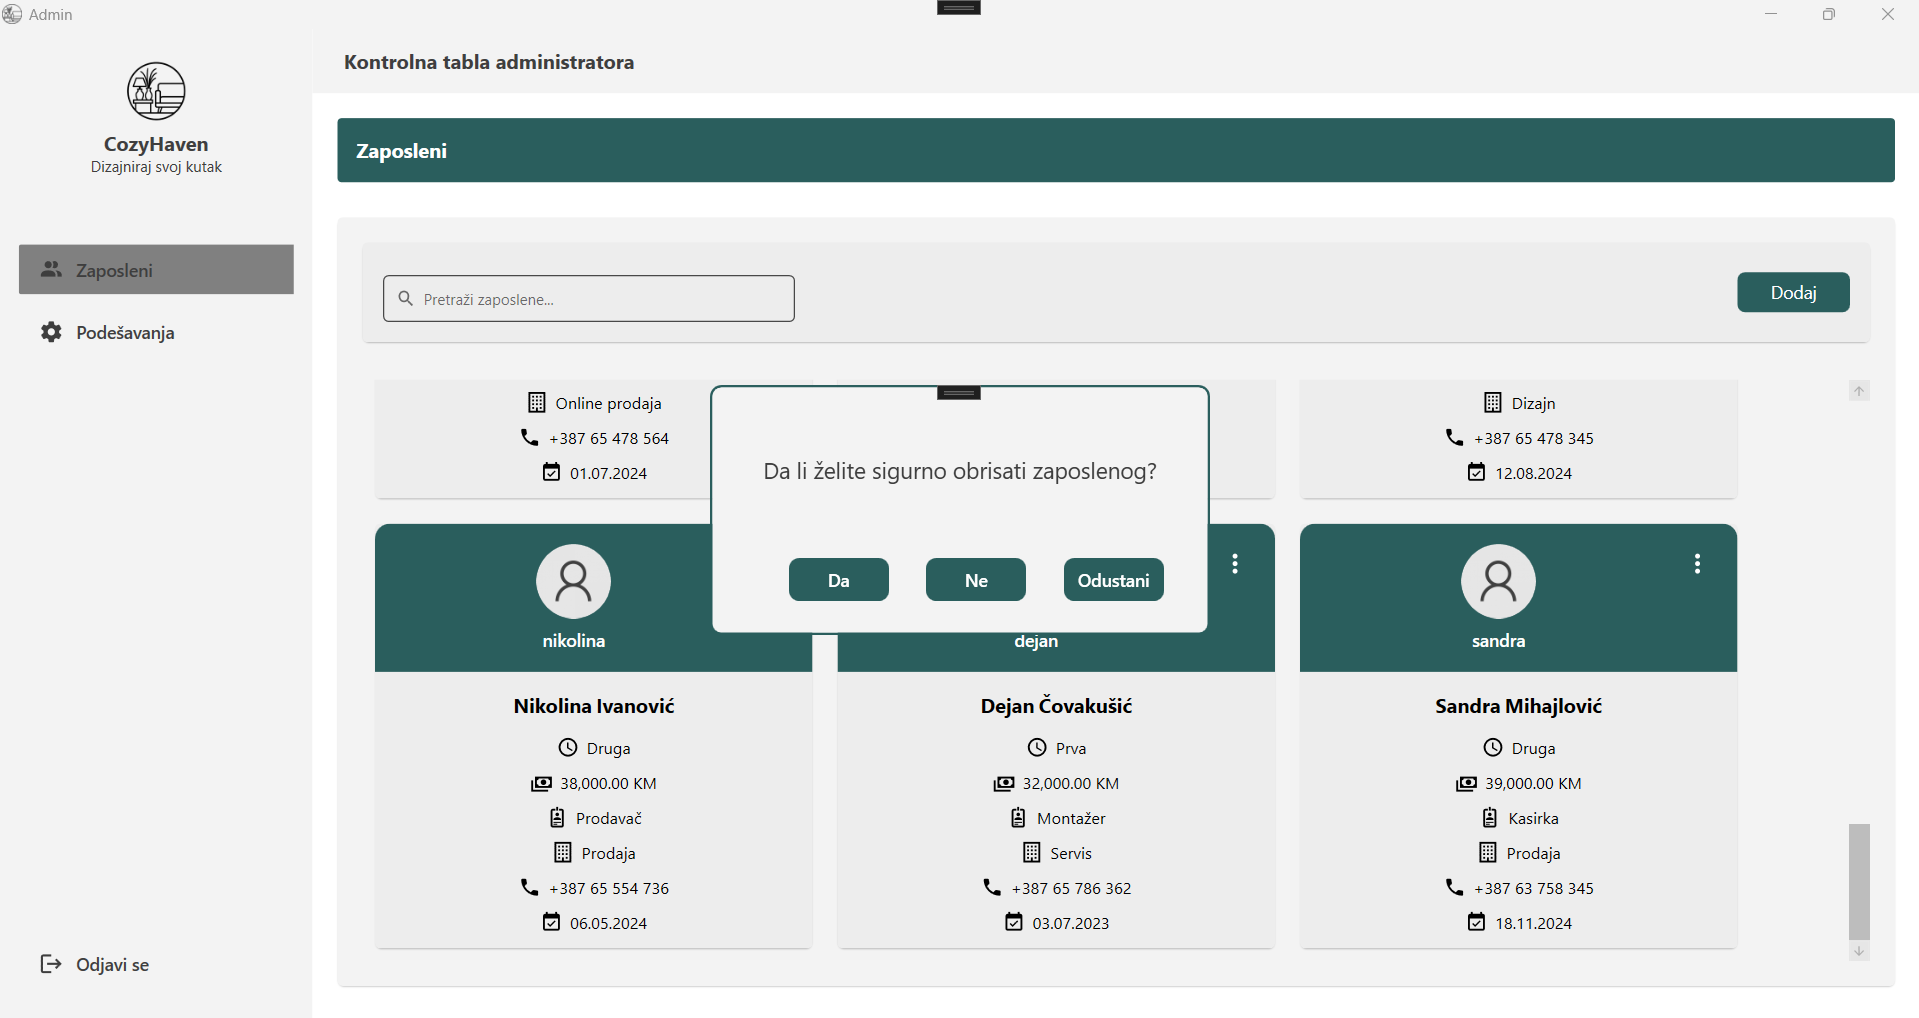
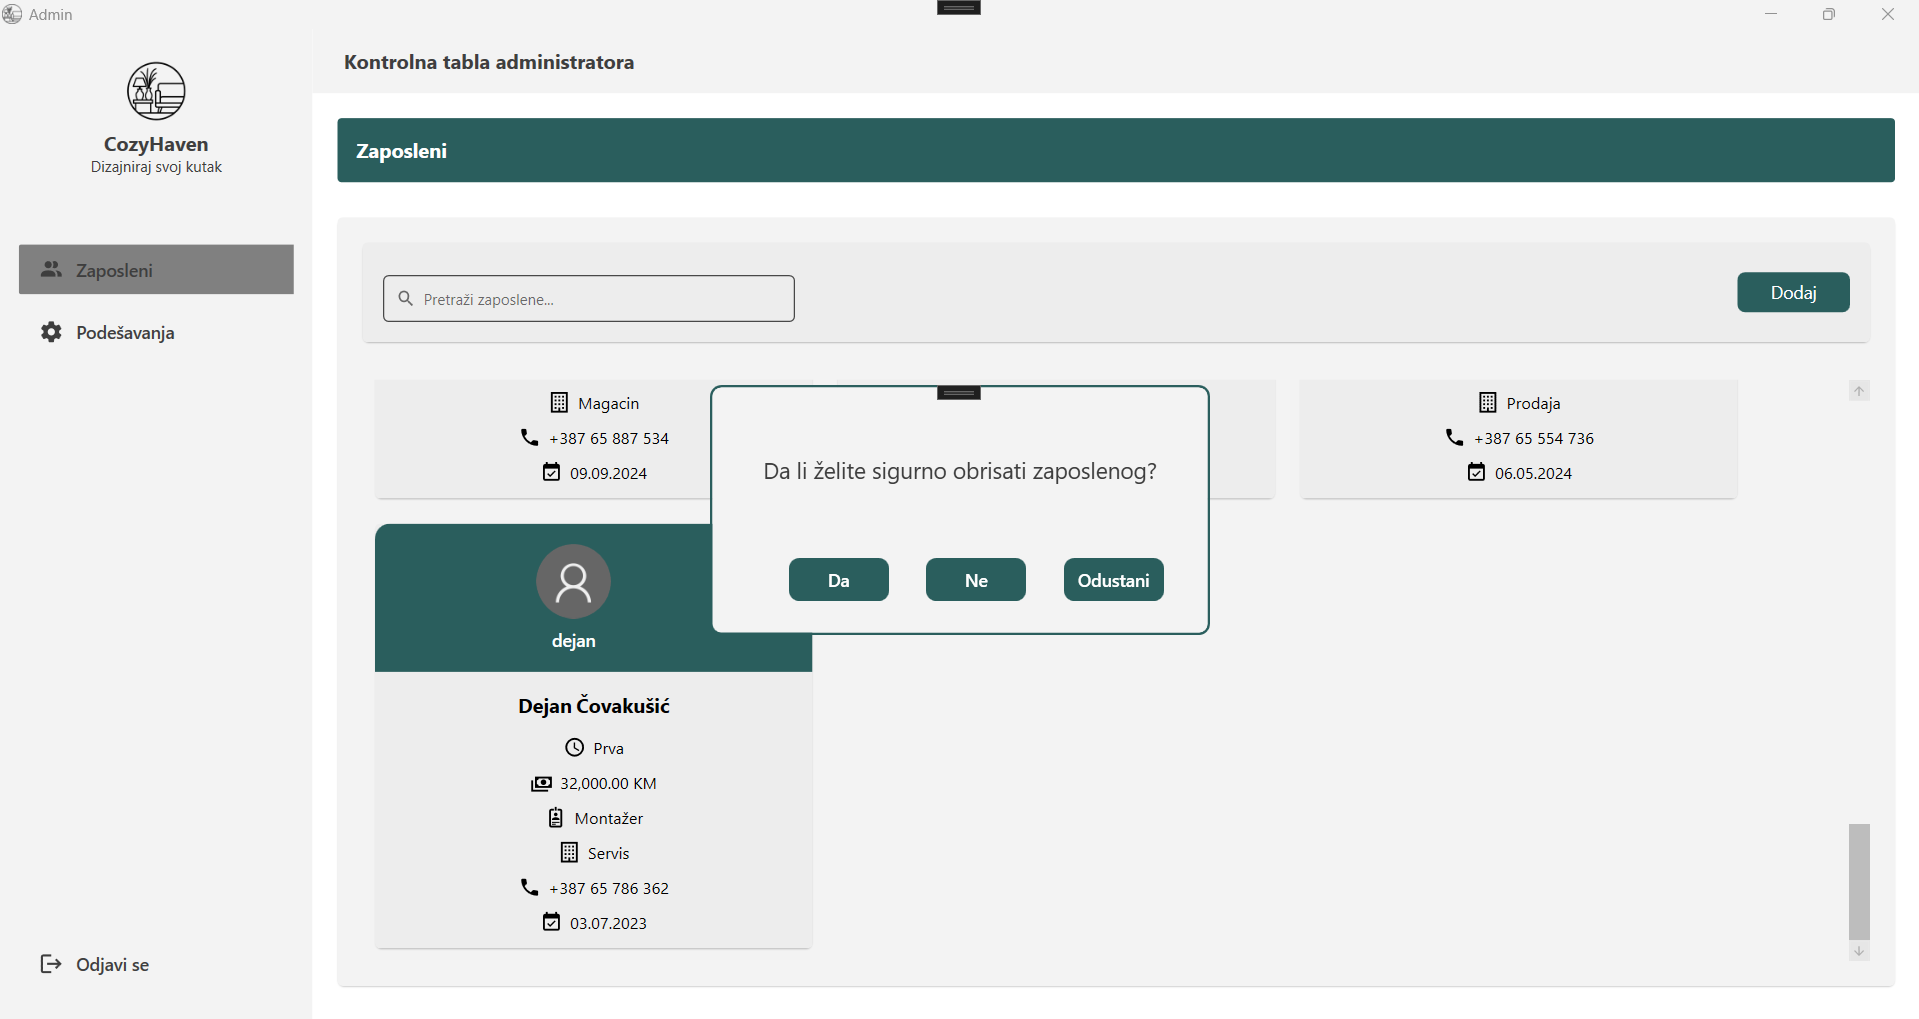
Fix delete and update popup style

diff --git a/CozyHaven/CozyHaven/Views/CategoriesView.xaml b/CozyHaven/CozyHaven/Views/CategoriesView.xaml
@@ -95,13 +95,13 @@
                                                     <materialDesign:PopupBox Grid.Column="1"
                                                                              HorizontalAlignment="Right"
                                                                              VerticalAlignment="Top"
-                                                                             Width="{DynamicResource BorderWidth}" Height="{DynamicResource BorderWidth}"
-                                                                             Background="Transparent"
+                                                                             Width="{DynamicResource BorderWidth}" 
+                                                                             Height="{DynamicResource BorderWidth}"
+                                                                             PopupUniformCornerRadius="10"
                                                                              Foreground="{DynamicResource FormForeground}">
                                                         <materialDesign:PopupBox.PopupContent>
-                                                            <Border Background="{DynamicResource SettingsCard}" 
-                                                                    CornerRadius="{DynamicResource CategoriesBorderCornerRadius}" 
-                                                                    Padding="{DynamicResource CategoriesPadding}">
+                                                            <Border Background="Transparent"
+                                                                    Padding="8">
                                                                 <StackPanel>
                                                                     <Button Style="{StaticResource MaterialDesignFlatButton}"
                                                                             HorizontalAlignment="Left"

diff --git a/CozyHaven/CozyHaven/Views/EmployeesView.xaml b/CozyHaven/CozyHaven/Views/EmployeesView.xaml
@@ -112,12 +112,12 @@
                                                     <materialDesign:PopupBox Grid.Column="1"
                                                                              HorizontalAlignment="Right"
                                                                              VerticalAlignment="Top"
-                                                                             Width="{DynamicResource BorderWidth}" Height="{DynamicResource BorderWidth}"
-                                                                             Background="Transparent"
+                                                                             Width="{DynamicResource BorderWidth}" 
+                                                                             Height="{DynamicResource BorderWidth}"
+                                                                             PopupUniformCornerRadius="10"
                                                                              Foreground="{DynamicResource FormForeground}">
                                                         <materialDesign:PopupBox.PopupContent>
-                                                            <Border Background="{DynamicResource SettingsCard}" 
-                                                                    CornerRadius="10" 
+                                                            <Border Background="Transparent"
                                                                     Padding="8">
                                                                 <StackPanel>
                                                                     <Button Style="{StaticResource MaterialDesignFlatButton}"

diff --git a/CozyHaven/CozyHaven/Views/ProductsView.xaml b/CozyHaven/CozyHaven/Views/ProductsView.xaml
@@ -108,11 +108,10 @@
                                                                              VerticalAlignment="Top"
                                                                              Width="{DynamicResource BorderWidth}"
                                                                              Height="{DynamicResource BorderWidth}"
-                                                                             Background="Transparent"
+                                                                             PopupUniformCornerRadius="10"
                                                                              Foreground="{DynamicResource FormForeground}">
                                                         <materialDesign:PopupBox.PopupContent>
-                                                            <Border Background="{DynamicResource SettingsCard}"
-                                                                    CornerRadius="10"
+                                                            <Border Background="Transparent"
                                                                     Padding="8">
                                                                 <StackPanel>
                                                                     <Button Style="{StaticResource MaterialDesignFlatButton}"

diff --git a/CozyHaven/CozyHaven/Views/ProductDetailsView.xaml b/CozyHaven/CozyHaven/Views/ProductDetailsView.xaml
@@ -94,7 +94,6 @@
                         <materialDesign:PackIcon Kind="ViewList" Width="{DynamicResource CategoriesIconWidth}" Height="{DynamicResource CategoriesIconWidth}" Margin="{DynamicResource BillMargin}" VerticalAlignment="Center" Foreground="{DynamicResource FormForeground}"/>
                         <TextBlock Text="{DynamicResource ProductCategory}" FontWeight="Bold" FontSize="{DynamicResource BillFontSize}" Margin="{DynamicResource EmployeeIconMargin}" Foreground="{DynamicResource FormForeground}"/>
                         <TextBlock Text="{Binding Category.Name}" FontSize="{DynamicResource BillFontSize}" Foreground="{DynamicResource FormForeground}"/>
-                        
                     </StackPanel>
                     <StackPanel Orientation="Horizontal" Margin="{DynamicResource ProductsViewMargin}">
                         <materialDesign:PackIcon Kind="TextBox" Width="{DynamicResource CategoriesIconWidth}" Height="{DynamicResource CategoriesIconWidth}" Margin="{DynamicResource BillMargin}" VerticalAlignment="Top" Foreground="{DynamicResource FormForeground}"/>

diff --git a/CozyHaven/CozyHaven/Views/AddProductView.xaml b/CozyHaven/CozyHaven/Views/AddProductView.xaml
@@ -98,8 +98,8 @@
                     <TextBox Text="{Binding ImagePath, Mode=TwoWay, UpdateSourceTrigger=PropertyChanged}"
                              materialDesign:HintAssist.Hint="{DynamicResource ProductImage}"
                              Style="{StaticResource AdminFormTextBoxStyle}"
-                             Margin="2,0,0,0"
-                             IsReadOnly="True"/>
+                             IsReadOnly="True"
+                             Margin="2,0,0,0"/>
                     <Button Width="{DynamicResource CalendarButton}" 
                             Height="{DynamicResource CalendarButton}" 
                             Margin="{DynamicResource CalendarMargin}"
